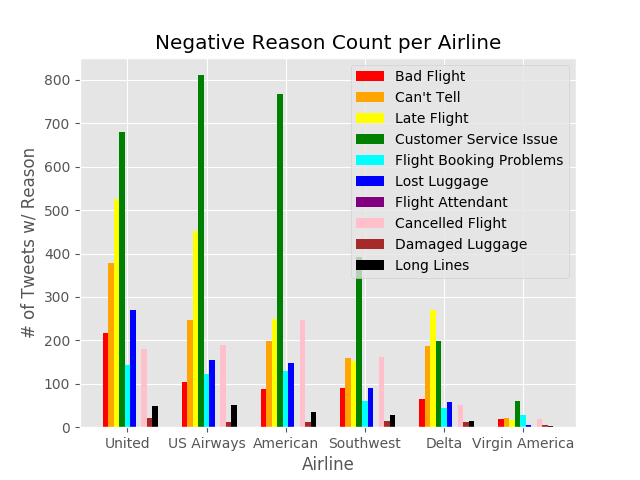
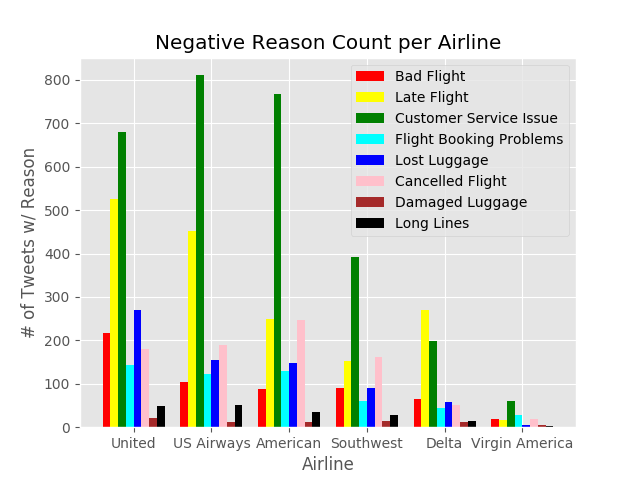
Removed unnecesary columns

Changed region(s): [[0.1562, 0.1875, 0.9062, 0.9375]]

diff --git a/TweetSentiment.py b/TweetSentiment.py
@@ -70,23 +70,21 @@ def graph_reason(data, scores):
   
   fix, ax = plt.subplots()
   index = np.arange(n_groups)
-  bar_width = 0.07
+  bar_width = 0.1
 
   badFlight = plt.bar(index, [tup[1]["Bad Flight"] for tup in sorted_by_score], bar_width, align='center', color='red', label="Bad Flight")
-  centTell = plt.bar(index + bar_width, [tup[1]["Can't Tell"] for tup in sorted_by_score], bar_width, align='center', color='orange', label="Can't Tell")
-  lateFlight = plt.bar(index + bar_width * 2, [tup[1]["Late Flight"] for tup in sorted_by_score], bar_width, align='center', color='yellow', label="Late Flight")
-  customerService = plt.bar(index + bar_width * 3, [tup[1]["Customer Service Issue"] for tup in sorted_by_score], bar_width, align='center', color='green', label="Customer Service Issue")
-  booking = plt.bar(index + bar_width * 4, [tup[1]["Flight Booking Problems"] for tup in sorted_by_score], bar_width, align='center', color='cyan', label="Flight Booking Problems")
-  lostLuggage = plt.bar(index + bar_width * 5, [tup[1]["Lost Luggage"] for tup in sorted_by_score], bar_width, align='center', color='blue', label="Lost Luggage")
-  flightAttendant = plt.bar(index + bar_width * 6, [tup[1]["Flight Attendant"] for tup in sorted_by_score], bar_width, align='center', color='purple', label="Flight Attendant")
-  cancelled = plt.bar(index + bar_width * 7, [tup[1]["Cancelled Flight"] for tup in sorted_by_score], bar_width, align='center', color='pink', label="Cancelled Flight")
-  damaged = plt.bar(index + bar_width * 8, [tup[1]["Damaged Luggage"] for tup in sorted_by_score], bar_width, align='center', color='brown', label="Damaged Luggage")
-  cancelled = plt.bar(index + bar_width * 9, [tup[1]["longlines"] for tup in sorted_by_score], bar_width, align='center', color='black', label="Long Lines")
+  lateFlight = plt.bar(index + bar_width, [tup[1]["Late Flight"] for tup in sorted_by_score], bar_width, align='center', color='yellow', label="Late Flight")
+  customerService = plt.bar(index + bar_width * 2, [tup[1]["Customer Service Issue"] for tup in sorted_by_score], bar_width, align='center', color='green', label="Customer Service Issue")
+  booking = plt.bar(index + bar_width * 3, [tup[1]["Flight Booking Problems"] for tup in sorted_by_score], bar_width, align='center', color='cyan', label="Flight Booking Problems")
+  lostLuggage = plt.bar(index + bar_width * 4, [tup[1]["Lost Luggage"] for tup in sorted_by_score], bar_width, align='center', color='blue', label="Lost Luggage")
+  cancelled = plt.bar(index + bar_width * 5, [tup[1]["Cancelled Flight"] for tup in sorted_by_score], bar_width, align='center', color='pink', label="Cancelled Flight")
+  damaged = plt.bar(index + bar_width * 6, [tup[1]["Damaged Luggage"] for tup in sorted_by_score], bar_width, align='center', color='brown', label="Damaged Luggage")
+  cancelled = plt.bar(index + bar_width * 7, [tup[1]["longlines"] for tup in sorted_by_score], bar_width, align='center', color='black', label="Long Lines")
 
   plt.xlabel("Airline")
   plt.ylabel("# of Tweets w/ Reason")
   plt.title("Negative Reason Count per Airline")
-  plt.xticks(index + bar_width * 4, [pair[0] for pair in sorted_by_score])
+  plt.xticks(index + bar_width * 3.5, [pair[0] for pair in sorted_by_score])
   plt.legend()
   plt.show()
 
